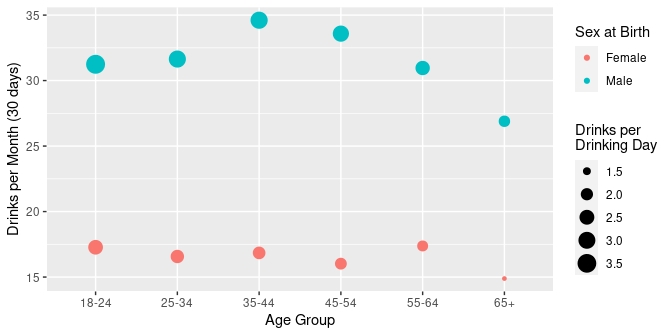
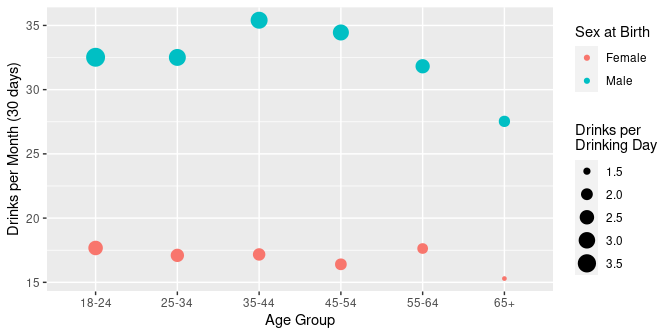
Replaced 0 with NA.

diff --git a/sql_examples.md b/sql_examples.md
@@ -675,10 +675,10 @@ drinkers <- tbl(con, "brfss2021") %>%
   mutate(DaysPerMonth = 
            case_when(ALCDAY5 >= 101 & ALCDAY5 <= 107 ~ (ALCDAY5 - 100) * (30/7),
                      ALCDAY5 >= 201 & ALCDAY5 <= 230 ~ ALCDAY5 - 200,
-                     .default = 0)) %>% 
+                     .default = NA)) %>% 
   mutate(DrinksPerDay = 
            case_when(AVEDRNK3 >= 1 & AVEDRNK3 <= 76 ~ AVEDRNK3,
-                     .default = 0)) %>% 
+                     .default = NA)) %>% 
   mutate(DrinksPerMonth = DrinksPerDay * DaysPerMonth) %>% 
   group_by(Gender, `Age Group`) %>% 
   summarize(across(c(DrinksPerDay, DrinksPerMonth), ~ mean(.x, na.rm = TRUE)),
